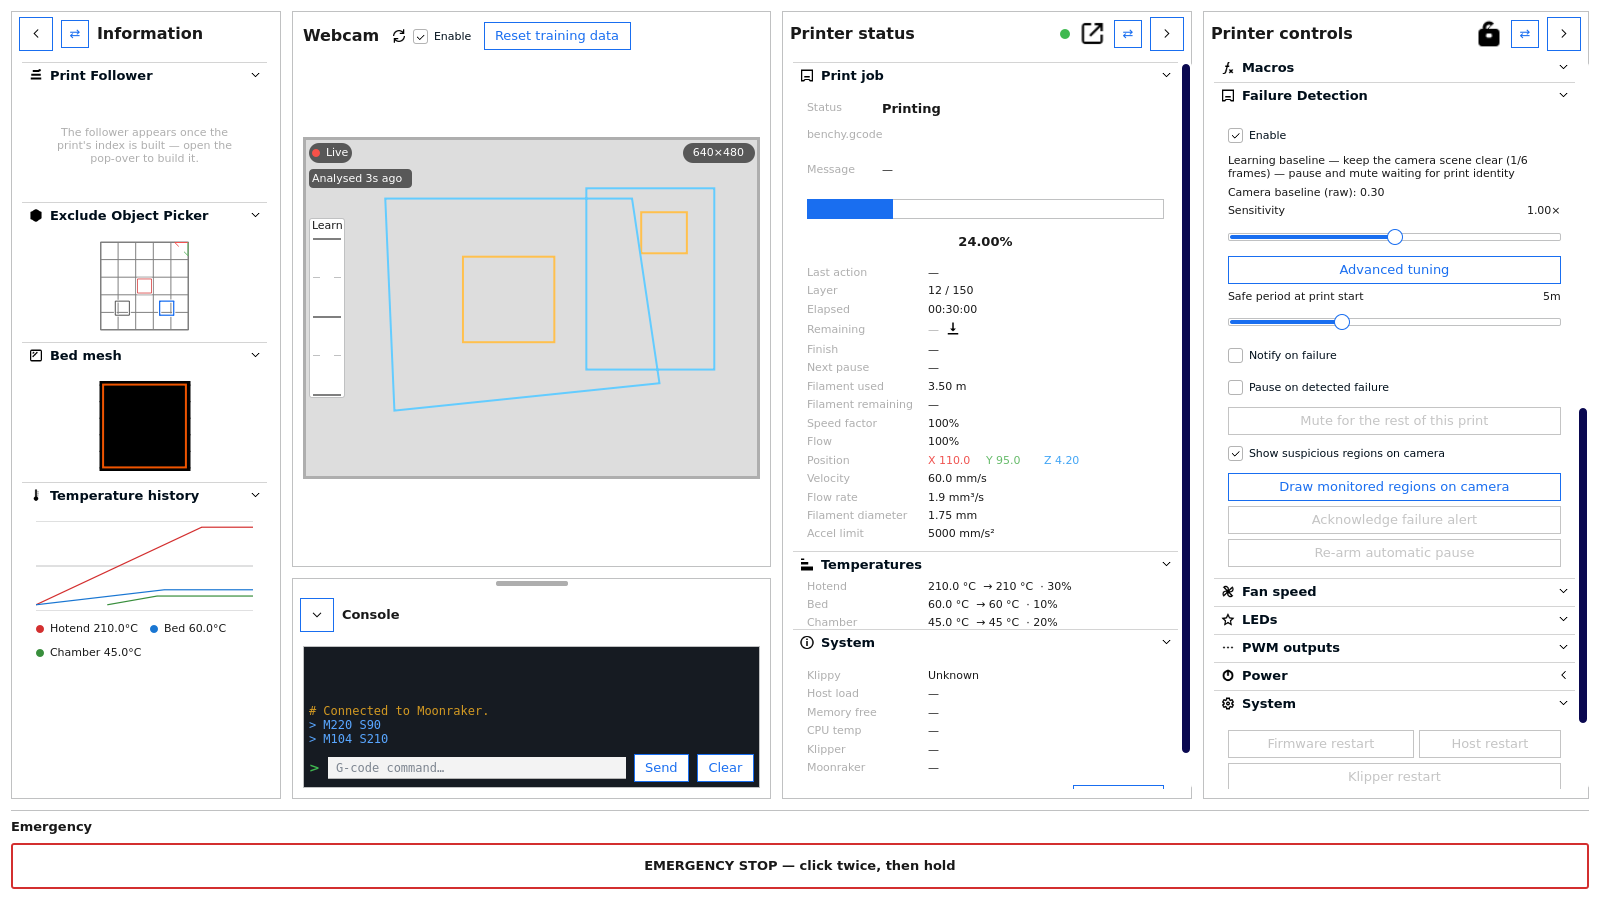
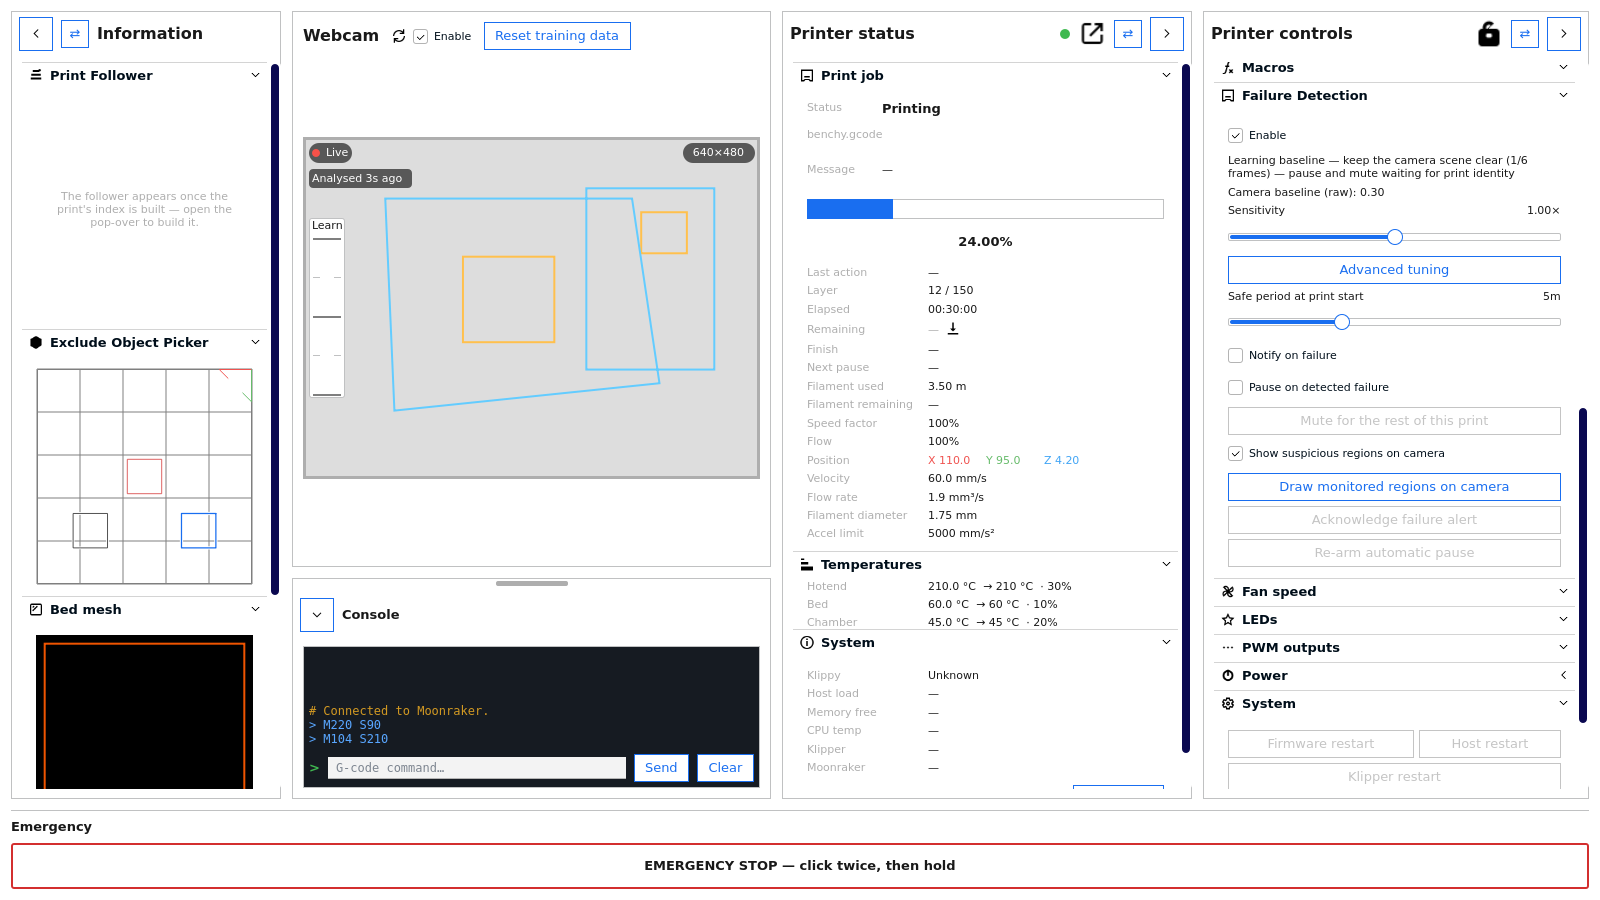
Polish monitor mini beds and refresh release screenshots

Changed region(s): [[0.0, 0.0622, 0.1875, 0.9022], [0.0312, 0.1244, 0.125, 0.1867]]

diff --git a/mpf/monitor/MoonrakerMonitor.qml b/mpf/monitor/MoonrakerMonitor.qml
@@ -25,6 +25,11 @@ Component {
         id: root
 
         property var printer: OutputDevice != null ? OutputDevice.activePrinter : null
+        // The three enlarged beds share a width. Reserve height in
+        // proportion to the machine bed, so a deep rectangular bed
+        // can still reach both sides of its pane when space permits.
+        readonly property real bedDepthRatio: printer != null && printer.bedMeshMachineWidth > 0 && printer.bedMeshMachineDepth > 0 ? Math.max(0.2, printer.bedMeshMachineDepth / printer.bedMeshMachineWidth) : 1.0
+        readonly property real bedHeightAdjustment: (585 * screenScaleFactor - 2 * UM.Theme.getSize("default_margin").width) * (bedDepthRatio - 1.0)
         // NOT a binding: root-level bindings on this dynamically
         // created document don't re-evaluate when the model's camera
         // URL lands (engine-proven — the stream sat dead until a
@@ -800,8 +805,8 @@ Component {
             printerModel: root.printer
             x: cameraArea.x + UM.Theme.getSize("default_margin").width
             y: UM.Theme.getSize("default_margin").height
-            height: Math.min((520 * screenScaleFactor) + UM.Theme.getSize("default_margin").height, parent.height - 2 * UM.Theme.getSize("default_margin").height)
-            contentWidth: 390 * screenScaleFactor
+            height: Math.min((860 * screenScaleFactor) + root.bedHeightAdjustment + UM.Theme.getSize("default_margin").height, parent.height - 2 * UM.Theme.getSize("default_margin").height)
+            contentWidth: 585 * screenScaleFactor
         }
 
         ObjectPickerPopover {
@@ -810,8 +815,8 @@ Component {
             printerModel: root.printer
             x: cameraArea.x + UM.Theme.getSize("default_margin").width
             y: UM.Theme.getSize("default_margin").height
-            height: Math.min((520 * screenScaleFactor) + UM.Theme.getSize("default_margin").height, parent.height - 2 * UM.Theme.getSize("default_margin").height)
-            contentWidth: 390 * screenScaleFactor
+            height: Math.min((790 * screenScaleFactor) + root.bedHeightAdjustment + UM.Theme.getSize("default_margin").height, parent.height - 2 * UM.Theme.getSize("default_margin").height)
+            contentWidth: 585 * screenScaleFactor
         }
 
         PrintFollowerPopover {
@@ -820,7 +825,7 @@ Component {
             printerModel: root.printer
             x: cameraArea.x + UM.Theme.getSize("default_margin").width
             y: UM.Theme.getSize("default_margin").height
-            height: Math.min((780 * screenScaleFactor) + UM.Theme.getSize("default_margin").height, parent.height - 2 * UM.Theme.getSize("default_margin").height)
+            height: Math.min((950 * screenScaleFactor) + root.bedHeightAdjustment + UM.Theme.getSize("default_margin").height, parent.height - 2 * UM.Theme.getSize("default_margin").height)
             // The plate's 585 plus the pause column beside it (the live
             // report: the schedule belongs in the width, not below the
             // plate) — clamped to the room right of the card's own x, so

diff --git a/mpf/monitor/camera/CameraPane.qml b/mpf/monitor/camera/CameraPane.qml
@@ -120,6 +120,7 @@ Cura.RoundedRectangle {
             spacing: UM.Theme.getSize("default_margin").width
 
             UM.Label {
+                id: cameraTitle
                 // The pane title, in the other panes'
                 // style — the same large bold face as
                 // Information and Printer status (a
@@ -177,6 +178,7 @@ Cura.RoundedRectangle {
                         }
 
                         UM.SimpleButton {
+                            id: refreshButton
                             width: UM.Theme.getSize("small_button_icon").width
                             height: UM.Theme.getSize("small_button_icon").height
                             enabled: root.printerModel != null && root.printerModel.monitorConnected && root.printerModel.webcamStreamEnabled
@@ -207,6 +209,7 @@ Cura.RoundedRectangle {
                         // its upstream fetch and the controls stand
                         // down until it comes back on.
                         UM.CheckBox {
+                            id: webcamToggle
                             text: "Enable"
                             checked: root.printerModel != null ? root.printerModel.webcamStreamEnabled : true
                             onToggled: {
@@ -216,9 +219,14 @@ Cura.RoundedRectangle {
                             }
                         }
                         Cura.SecondaryButton {
+                            id: resetTrainingButton
                             objectName: "resetCameraTrainingButton"
                             text: "Reset training data"
-                            visible: root.printerModel != null && root.printerModel.detectionGlobalEnabled && root.printerModel.detectionEnabled
+                            // Reserve the selector's minimum width, the refresh
+                            // icon and Enable first. Visibility must depend on
+                            // the outer width rather than this row's implicit
+                            // width, which itself changes with visibility.
+                            visible: cameraControls.visible && root.printerModel != null && root.printerModel.detectionGlobalEnabled && root.printerModel.detectionEnabled && root.width >= 450 * screenScaleFactor && root.width - cameraTitle.implicitWidth - 3 * UM.Theme.getSize("default_margin").width >= (cameraSelector.visible ? cameraSelector.Layout.minimumWidth + UM.Theme.getSize("narrow_margin").width : 0) + refreshButton.width + webcamToggle.implicitWidth + resetTrainingButton.implicitWidth + 4 * UM.Theme.getSize("narrow_margin").width
                             enabled: visible && root.printerModel.detectionCameraReady && !root.printerModel.detectionEditingRegions
                             onClicked: {
                                 resetTrainingDialog.targetMonitor = root.printerModel;

diff --git a/mpf/plate/PlateSection.qml b/mpf/plate/PlateSection.qml
@@ -7,12 +7,13 @@ import "../widgets"
 // The Plate section (4.6.0): the mini map out of the monitor as one
 // property-driven component, mirroring the bed-mesh section. The mini
 // is the glance — outlines plus the toolhead dot only, never the
-// layer path (90 px of 50 outlines is already mush); a click opens
+// layer path (dense outlines need their own full view); a click opens
 // the pop-over, where the gesture lives.
 ColumnLayout {
     id: root
     spacing: 0
     property var printerModel: null
+    readonly property real bedDepthRatio: printerModel != null && printerModel.bedMeshMachineWidth > 0 && printerModel.bedMeshMachineDepth > 0 ? printerModel.bedMeshMachineDepth / printerModel.bedMeshMachineWidth : 1.0
     signal popOverToggleRequested(string name)
 
     CollapsibleSectionHeader {
@@ -32,13 +33,13 @@ ColumnLayout {
         Layout.fillWidth: true
         spacing: UM.Theme.getSize("default_margin").height
 
-        // NO-REFLOW: the 90 px slot is always reserved; the map fades
+        // NO-REFLOW: the bed-shaped slot is always reserved; the map fades
         // in and out and the placeholder overlays the same slot, so
         // the plate arriving (connect, print start) never shifts the
         // section.
         Item {
             Layout.fillWidth: true
-            Layout.preferredHeight: 90 * screenScaleFactor
+            Layout.preferredHeight: Math.max(90 * screenScaleFactor, width * root.bedDepthRatio)
 
             PlateCanvas {
                 id: plateMini

diff --git a/mpf/monitor/MeshSection.qml b/mpf/monitor/MeshSection.qml
@@ -13,6 +13,7 @@ ColumnLayout {
     id: root
     spacing: 0
     property var printerModel: null
+    readonly property real bedDepthRatio: printerModel != null && printerModel.bedMeshMachineWidth > 0 && printerModel.bedMeshMachineDepth > 0 ? printerModel.bedMeshMachineDepth / printerModel.bedMeshMachineWidth : 1.0
     signal popOverToggleRequested(string name)
 
     // The host re-renders the mini map on typed-controls changes; the
@@ -40,14 +41,14 @@ ColumnLayout {
         // The mini map is the at-a-glance widget; a
         // click opens the pop-over detail view with
         // the probe-snapping crosshair. NO-REFLOW
-        // RULE: the 90 px slot is always reserved —
+        // RULE: a bed-shaped slot is always reserved —
         // the map fades in and out, and the
         // placeholder is an overlay inside the same
         // slot, so the mesh arriving (connect,
         // calibrate) never shifts the section.
         Item {
             Layout.fillWidth: true
-            Layout.preferredHeight: 90 * screenScaleFactor
+            Layout.preferredHeight: Math.max(90 * screenScaleFactor, width * root.bedDepthRatio)
 
             BedMeshMap {
                 id: meshMiniMap

diff --git a/mpf/plate/PlateCanvas.qml b/mpf/plate/PlateCanvas.qml
@@ -26,6 +26,9 @@ Item {
     // lands between grabs, so a measurement that subtracts one frame
     // from another measures the grid and whatever else moved with it.
     property bool showGrid: true
+    // Item already owns an antialiasing property; keep the model
+    // preference distinct from that built-in render hint.
+    readonly property bool smoothGrid: root.printerModel != null ? root.printerModel.followerAntialiasing : false
     property bool showAxisArrows: true
     // The zoom/pan view, owned by the follower face and applied by
     // THIS canvas's grid (the bottom raster must move with the
@@ -346,8 +349,8 @@ Item {
         id: objectRenderer
         anchors.fill: parent
         visible: root.gpuRendering
-        // The picker always antialiases, independently of follower settings.
-        layer.enabled: true
+        // The same setting controls the picker grid and object edges.
+        layer.enabled: root.smoothGrid
         layer.samples: 4
         layer.smooth: true
         scene: root.gpuRendering ? ({

diff --git a/mpf/plate/PlateProgressSection.qml b/mpf/plate/PlateProgressSection.qml
@@ -13,6 +13,7 @@ ColumnLayout {
     id: root
     spacing: 0
     property var printerModel: null
+    readonly property real bedDepthRatio: printerModel != null && printerModel.bedMeshMachineWidth > 0 && printerModel.bedMeshMachineDepth > 0 ? printerModel.bedMeshMachineDepth / printerModel.bedMeshMachineWidth : 1.0
     signal popOverToggleRequested(string name)
 
     CollapsibleSectionHeader {
@@ -36,7 +37,7 @@ ColumnLayout {
         // the placeholder overlays the same slot.
         Item {
             Layout.fillWidth: true
-            Layout.preferredHeight: 90 * screenScaleFactor
+            Layout.preferredHeight: Math.max(90 * screenScaleFactor, width * root.bedDepthRatio)
 
             PlateProgressFace {
                 id: progressMini

diff --git a/mpf/plate/PlateProgressFace.qml b/mpf/plate/PlateProgressFace.qml
@@ -1725,6 +1725,11 @@ Item {
         anchors.fill: parent
         z: 0.2
         visible: gpuFollower.visible
+        // The grid is a separate scene-graph layer, so smoothing the
+        // toolpath material alone does not affect its straight edges.
+        layer.enabled: root.smoothToolpaths
+        layer.samples: 4
+        layer.smooth: true
         dataSource: gpuFollower
         settings: {
             var settings = root.translucentSettings("");

diff --git a/tests/test_qml_plate_geometry.py b/tests/test_qml_plate_geometry.py
@@ -2,6 +2,54 @@
 from tests import qml_engine_support as harness
 
 class PlateFaceRenderTests(harness.PlateFaceRenderTests):
+    def test_information_mini_beds_keep_a_rectangular_bed_in_proportion(self):
+        previous = harness.PlatePrinterDouble.BED
+        harness.PlatePrinterDouble.BED = (250.0, 400.0)
+        self.addCleanup(setattr, harness.PlatePrinterDouble, "BED", previous)
+        monitor, _window = self.mount_window("MoonrakerMonitor.qml", 1100, 1000)
+        self._open(monitor, "")
+        faces = (
+            next(item for item in monitor.findChildren(harness.QQuickItem, "moonrakerBedMeshMap")
+                 if item.property("compact")),
+            next(item for item in monitor.findChildren(harness.QQuickItem, "moonrakerPlateProgressFace")
+                 if item.property("compact")),
+            next(item for item in monitor.findChildren(harness.QQuickItem, "moonrakerPlateCanvas")
+                 if item.property("compact") and item.parentItem().objectName() != "moonrakerPlateProgressFace"),
+        )
+        for face in faces:
+            self.assertGreater(face.width(), 170)
+            self.assertAlmostEqual(face.height() / face.width(), 1.6, delta=.02)
+
+    def test_information_mini_beds_fill_the_column(self):
+        monitor, _window = self.mount_window("MoonrakerMonitor.qml", 1100, 760)
+        self._open(monitor, "")
+        mesh = next(item for item in monitor.findChildren(harness.QQuickItem, "moonrakerBedMeshMap")
+                    if item.property("compact"))
+        follower = next(item for item in monitor.findChildren(harness.QQuickItem, "moonrakerPlateProgressFace")
+                        if item.property("compact"))
+        picker = next(item for item in monitor.findChildren(harness.QQuickItem, "moonrakerPlateCanvas")
+                      if item.property("compact") and item.parentItem().objectName() != "moonrakerPlateProgressFace")
+        for face in (mesh, follower, picker):
+            self.assertGreater(face.width(), 170)
+            self.assertAlmostEqual(face.height(), face.width(), delta=2)
+        self.assertAlmostEqual(mesh.width(), follower.width(), delta=2)
+        self.assertAlmostEqual(mesh.width(), picker.width(), delta=2)
+
+    def test_enlarged_plate_popovers_leave_room_for_square_beds(self):
+        widths = []
+        for popover, name in (("plate", "moonrakerPlateExcludeFace"),
+                              ("plateprogress", "moonrakerPlateProgressFace")):
+            with self.subTest(popover=popover):
+                monitor, _window = self.mount_window("MoonrakerMonitor.qml", 1100, 1100)
+                self._open(monitor, popover)
+                face = self._popover_faces(monitor, name)[0]
+                widths.append(face.width())
+                self.assertGreater(face.width(), 300)
+                self.assertGreaterEqual(face.height(), face.width() - 2,
+                                        "the plate is flattened by the popover's height")
+        self.assertAlmostEqual(widths[0], widths[1], delta=2,
+                               msg="the same bed uses different widths across popovers")
+
     def test_clear_pause_action_fits_and_stays_beside_pause_during_zoom(self):
         for panel_width in (800, 900, 1100):
             with self.subTest(panel_width=panel_width):

diff --git a/tools/capture_monitor.py b/tools/capture_monitor.py
@@ -531,11 +531,25 @@ def main():
         if not chart_items:
             raise RuntimeError("visible compact TemperatureChart not found in the scene")
         chart = chart_items[0]
+        # The bed-sized mini maps above this chart can push it below the
+        # Information viewport. Scroll the chart into view before reading
+        # its pixels; a fixed scene position now samples the clipped area.
+        info_flick = chart.parentItem()
+        while info_flick is not None and info_flick.metaObject().indexOfProperty("contentY") < 0:
+            info_flick = info_flick.parentItem()
+        if info_flick is None:
+            raise RuntimeError("Information flickable not found above the mini chart")
+        chart_y = chart.mapToItem(info_flick, QPointF(0, 0)).y()
+        info_flick.setProperty("contentY", max(0, min(
+            info_flick.property("contentHeight") - info_flick.height(),
+            info_flick.property("contentY") + chart_y - info_flick.height() / 3)))
         scene = settled_window()
         top_left = chart.mapToScene(QPointF(0, 0))
         colours = {scene.pixelColor(int(top_left.x() + x), int(top_left.y() + y)).name()
                    for x in range(5, min(160, int(chart.width())), 7)
-                   for y in range(5, int(chart.height()), 4)}
+                   for y in range(5, int(chart.height()), 4)
+                   if 0 <= top_left.x() + x < scene.width()
+                   and 0 <= top_left.y() + y < scene.height()}
         # The mini is a SPARKLINE (2 grid lines, flat series, no
         # labels): its correct signature is the background, the grid
         # and at least ONE series colour — the old 12-colour floor
@@ -545,6 +559,7 @@ def main():
         if len(colours) < 3:
             raise RuntimeError("mini chart region looks blank (%d colours)" % len(colours))
         print("mini chart region colours:", len(colours))
+        info_flick.setProperty("contentY", 0)
         for _ in range(3):
             app.processEvents()
 

diff --git a/mpf/whatsnew/WhatsNew.py b/mpf/whatsnew/WhatsNew.py
@@ -32,7 +32,8 @@ WHATS_NEW: Tuple[dict, ...] = (
         "items": (
             "After you opt in, setup downloads and verifies the model and "
             "CPU runtime, then checks that inference works on this computer. "
-            "There is no cloud account, video upload or server to run.",
+            "There is no cloud account, video upload or server to run. "
+            "Detection watches while Cura and its Monitor are open.",
             "The Detection settings tab handles shared setup, a global switch "
             "and health checks. Each printer has its own Enable checkbox, "
             "sensitivity, advanced bounds and initial safe period.",
@@ -59,6 +60,9 @@ WHATS_NEW: Tuple[dict, ...] = (
             "the layer you pick while it is detached, down to the point you "
             "select inside it, so a look ahead says exactly how long the "
             "wait is.",
+            "The mini Bed Mesh, Exclude Object Picker and Print Follower beds "
+            "fill the available pane width, keeping rectangular beds in "
+            "proportion. Antialiasing also smooths the Follower and Picker grids.",
             "Klipper's Apply Z offset can stage a probe or endstop adjustment "
             "when the target is clear; Save configuration remains separate.",
             "Detection can miss failures or raise false alarms. Do not rely "

diff --git a/tests/test_monitor_model_runtime.py b/tests/test_monitor_model_runtime.py
@@ -3481,8 +3481,9 @@ Item {
             # Explicit user drag/click modes for the detection indicator.
             "visible: root.signalShown && !root.signalCompact && root.signalBarMode < 2",
             "visible: root.signalShown && (root.signalCompact || root.signalBarMode === 2)",
-            # User-requested training reset only belongs to enabled detection.
-            "visible: root.printerModel != null && root.printerModel.detectionGlobalEnabled && root.printerModel.detectionEnabled",
+            # User-requested training reset belongs to enabled detection and
+            # gives way when the camera title/controls need the row's width.
+            "visible: cameraControls.visible && root.printerModel != null && root.printerModel.detectionGlobalEnabled && root.printerModel.detectionEnabled && root.width >= 450 * screenScaleFactor && root.width - cameraTitle.implicitWidth - 3 * UM.Theme.getSize(\"default_margin\").width >= (cameraSelector.visible ? cameraSelector.Layout.minimumWidth + UM.Theme.getSize(\"narrow_margin\").width : 0) + refreshButton.width + webcamToggle.implicitWidth + resetTrainingButton.implicitWidth + 4 * UM.Theme.getSize(\"narrow_margin\").width",
             "visible: !root.lineOnly",
             "visible: root.signalShown",
             "visible: !root.waiting",

diff --git a/tests/test_qml_camera_controls.py b/tests/test_qml_camera_controls.py
@@ -3,6 +3,16 @@ from tests import qml_engine_support as harness
 
 
 class DetectionSignalLayoutTests(harness.CameraFpsControlTests):
+    def test_camera_training_reset_hides_before_it_overflows(self):
+        wide, _window, model, _image, _frame = self._fps_pane(700, 700)
+        model.set_detection("normal", 0)
+        self.pump()
+        self.assertTrue(self.find(wide, "resetCameraTrainingButton").property("visible"))
+        narrow, _window, model, _image, _frame = self._fps_pane(360, 700)
+        model.set_detection("normal", 0)
+        self.pump()
+        self.assertFalse(self.find(narrow, "resetCameraTrainingButton").property("visible"))
+
     def test_camera_training_reset_requires_confirmation_and_detection_enabled(self):
         from PyQt6.QtCore import QObject, QMetaObject
         pane, _window, model, _image, _frame = self._fps_pane(700, 700)
